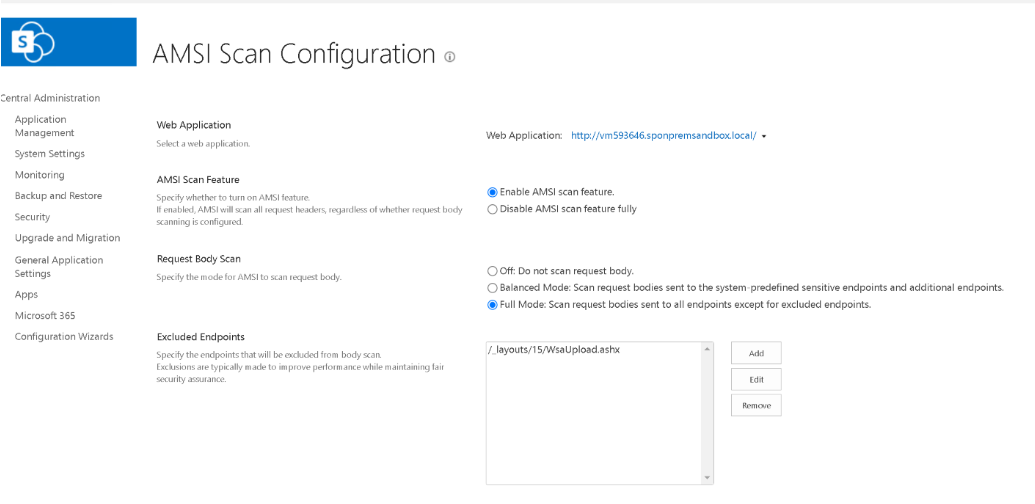
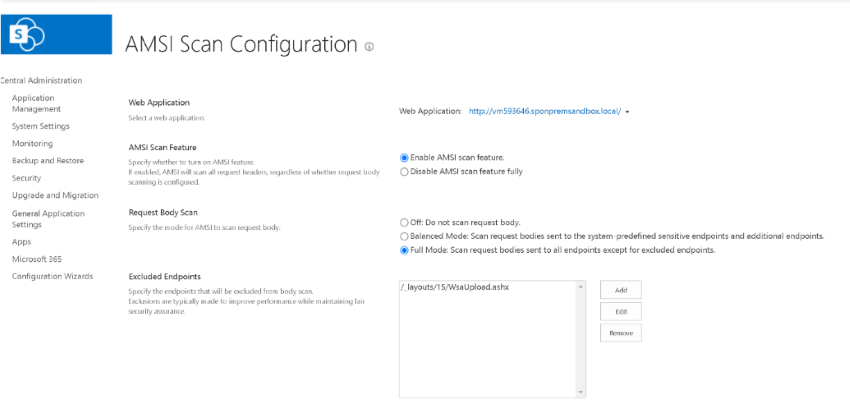
added note

diff --git a/SharePoint/SharePointServer/security-for-sharepoint-server/configure-amsi-integration.md b/SharePoint/SharePointServer/security-for-sharepoint-server/configure-amsi-integration.md
@@ -100,17 +100,13 @@ If you installed the SharePoint Server Subscription Edition Version 25H1 feature
 
     To specify the endpoints that are excluded from the body scan, ensure that the endpoints contain the whole request URI path. For example, `/SitePages/Home.aspx`, so it can scan URLs like `http://test.contoso.com/SitePages/Home.aspx`, and `http://test.contoso.com/sites/marketing/SitePages/Home.aspx`. To understand the syntax structure of URI, refer to [Uniform Resource Identifier - Wikipedia](https://en.wikipedia.org/wiki/Uniform_Resource_Identifier).
 
-:::image type="content" source="../media/amsi-configuration-body-scan-page.png" alt-text="Screenshot of the AMSI Scan Configuration page with different modes.":::
+:::image type="content" source="../media/amsi-configuration-body-scan-page.png" alt-text="Screenshot of the AMSI Scan Configuration page with different modes." lightbox="../media/amsi-configuration-body-scan-page.png":::
 
 > [!NOTE]
-> The following are to be considered when configuring AMSI:
 >
 > - Each web application must be configured for AMSI independently, and the specified endpoints list applies only to that web application.
->
 > - If AMSI has been disabled for a web application, it will remain disabled after upgrading to a build with the new Body Scan feature.
->
 > - Body scanning can't be enabled without also enabling header scanning.
->
 > - The default configuration for Body Scan is "Balanced Mode." After upgrading, any web application that had AMSI enabled will also have Body Scanning enabled in "Balanced Mode."
 
 ### Activate/Deactivate AMSI using PowerShell